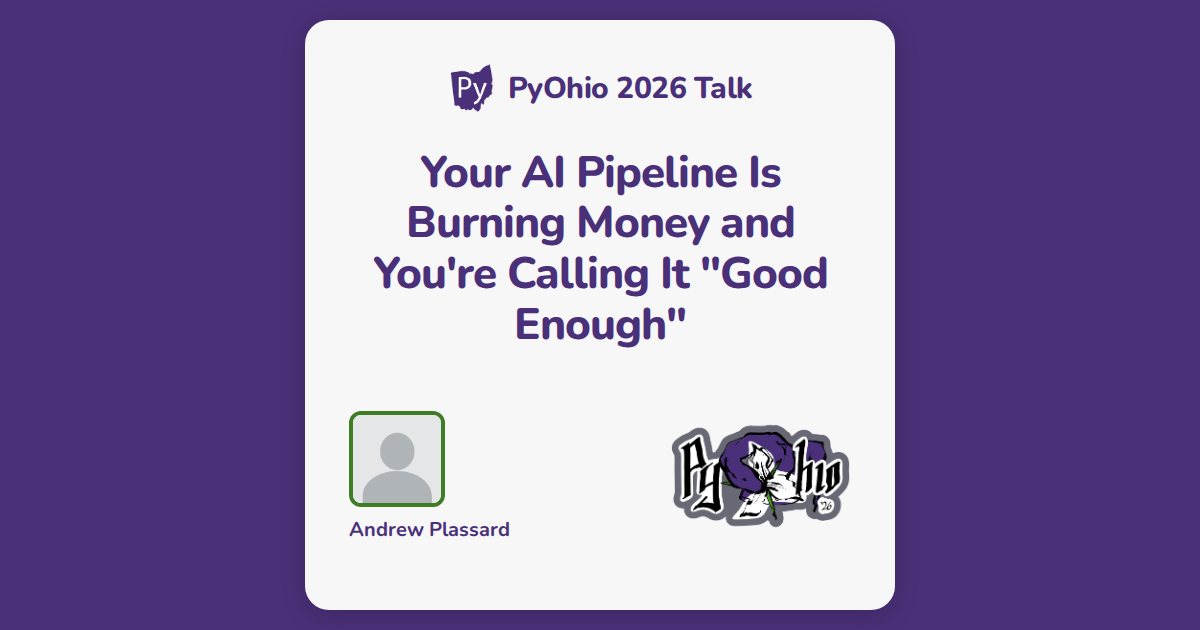
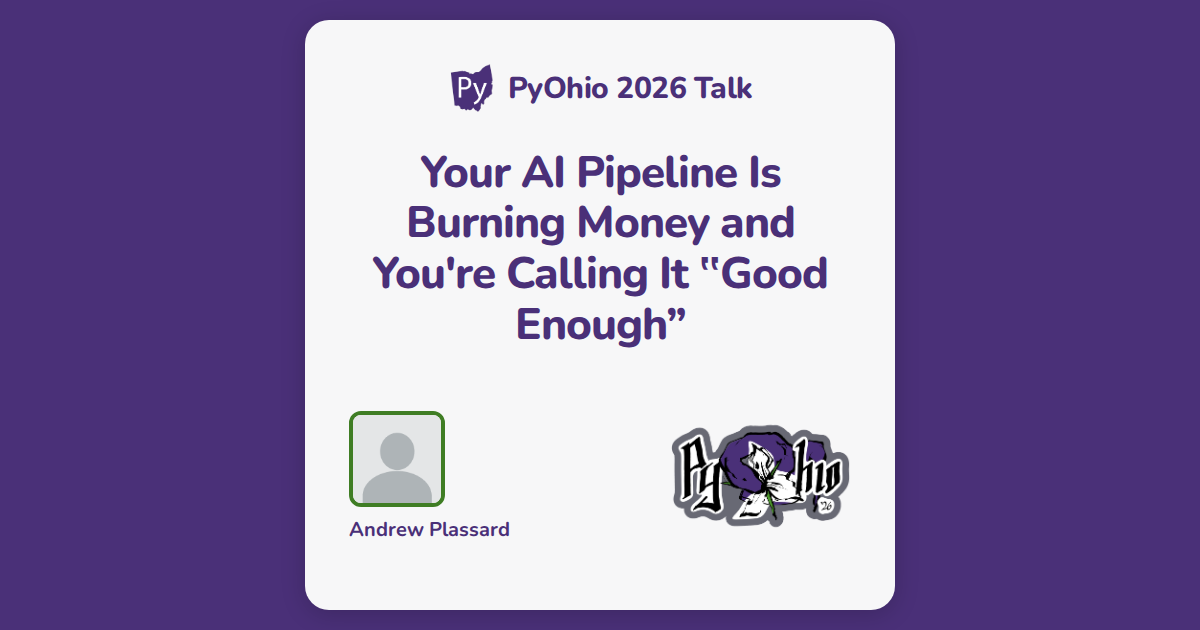
Update data and OG images from PreTalx (#596)

Changed region(s): [[0.3083, 0.3921, 0.6167, 0.5429]]

diff --git a/2026/content/program/talks/your-ai-pipeline-is-burning-money-and-you-re-calling-it-good.md b/2026/content/program/talks/your-ai-pipeline-is-burning-money-and-you-re-calling-it-good.md
@@ -1,11 +1,11 @@
 ---
-title: Your AI Pipeline Is Burning Money and You're Calling It "Good Enough"
+title: Your AI Pipeline Is Burning Money and You're Calling It ‟Good Enough”
 page_type: talk
 code: RZ78NR
 duration: 30
 type: 30 Minute Talk
 qna: true
-qna_channel: Your AI Pipeline Is Burning Money and You're Calling It "Good Enough"
+qna_channel: Your AI Pipeline Is Burning Money and You're Calling It ‟Good Enough”
 speakers:
   - name: Andrew Plassard
     slug: andrew-plassard

diff --git a/2026/content/program/talks/index.md b/2026/content/program/talks/index.md
@@ -164,7 +164,7 @@ talks:
       - name: Krishna Mridha
         slug: krishna-mridha
   - slug: your-ai-pipeline-is-burning-money-and-you-re-calling-it-good
-    title: Your AI Pipeline Is Burning Money and You're Calling It "Good Enough"
+    title: Your AI Pipeline Is Burning Money and You're Calling It ‟Good Enough”
     type: 30 Minute Talk
     speakers:
       - name: Andrew Plassard

diff --git a/2026/content/program/speakers/andrew-plassard.md b/2026/content/program/speakers/andrew-plassard.md
@@ -7,7 +7,7 @@ listed: true
 talks:
   - code: RZ78NR
     slug: your-ai-pipeline-is-burning-money-and-you-re-calling-it-good
-    title: Your AI Pipeline Is Burning Money and You're Calling It "Good Enough"
+    title: Your AI Pipeline Is Burning Money and You're Calling It ‟Good Enough”
     type: 30 Minute Talk
     speakers:
       - name: Andrew Plassard
